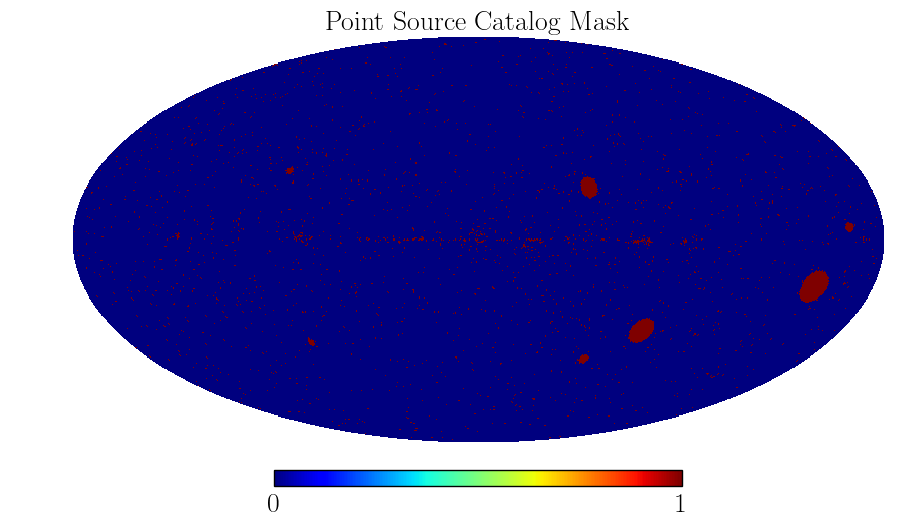
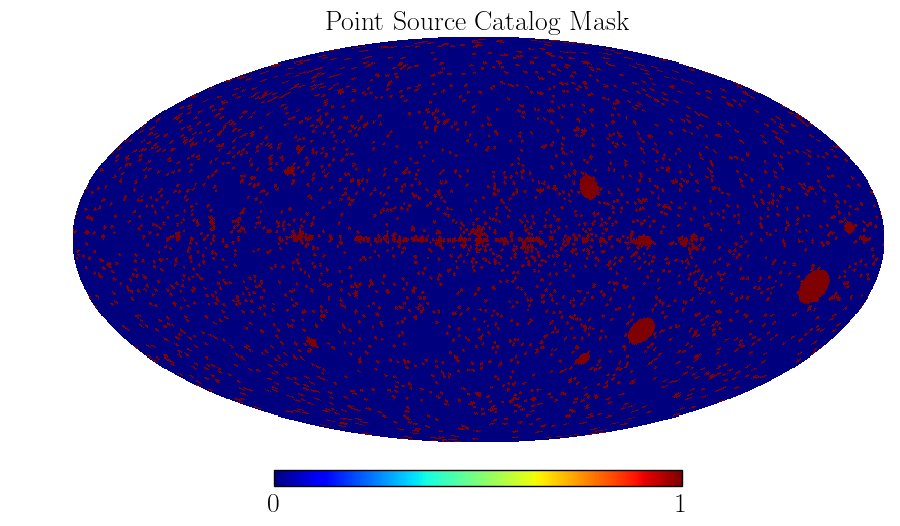
Updated rst examples in docs

diff --git a/docs/Example1_Overview_of_the_Fermi_Data.rst b/docs/Example1_Overview_of_the_Fermi_Data.rst
@@ -62,15 +62,15 @@ Downloading the data
 --------------------
 
 The *Fermi* data used here can be downloaded from
-http://physics.princeton.edu/~smsharma/fermi\_data.tar.gz along with a
-``README`` detailing the data. The following commands automatically
-download and set up the data on a UNIX system:
+https://dspace.mit.edu/handle/1721.1/105492 along with a ``README``
+detailing the data. The following commands automatically download and
+set up the data on a UNIX system:
 
 .. code:: python
 
-    # Assumes wget is available! Otherwise, download manually 
-    # from http://physics.princeton.edu/~smsharma/fermi_data.tar.gz
-    os.system("wget http://physics.princeton.edu/~smsharma/fermi_data.tar.gz")
+    # Assumes wget is available! Otherwise, use curl or download manually 
+    # from https://dspace.mit.edu/handle/1721.1/105492
+    os.system("wget https://dspace.mit.edu/bitstream/handle/1721.1/105492/fermi_data.tar.gz")
     os.system("tar -xvf fermi_data.tar.gz")
     os.system("rm -r fermi_data.tar.gz*")
 
@@ -206,9 +206,8 @@ Point Source Catalog Mask
 
 We also include a mask of all point sources in the 3FGL, as well as
 large extended objects such as the Large Magellanic Cloud. All point
-sources are masked at :math:`1^{\circ}`, which is much larger than the
-relevant PSF in the dataset and energy range we are using. The map below
-is a mask, so just a boolean array
+sources are masked at 95% containment as appropriate for this ``nside``.
+The map below is a mask, so just a boolean array
 
 Note that with the NPTF it is not always desirable to mask point sources
 - we can often simply use a non-Poissonian template to model them.
@@ -217,7 +216,7 @@ Note that with the NPTF it is not always desirable to mask point sources
 
     pscmask = np.load('fermi_data/fermidata_pscmask.npy')
     
-    hp.mollview(pscmask,title='Point Source Catalog Mask')
+    hp.mollview(pscmask, title='Point Source Catalog Mask')
 
 
 

diff --git a/docs/Example7_Galactic_Center_nonPoissonian.rst b/docs/Example7_Galactic_Center_nonPoissonian.rst
@@ -14,12 +14,12 @@ can be found as ``Example7_Galactic_Center_nonPoissonian.py``, which can
 be run faster on multiple processors with MPI (see example in
 ``Example7_Galactic_Center_Batch.batch``.
 
-**NB:** even with ``nlive=100``, this notebook takes roughly one hour to
+**NB:** Even with ``nlive=100``, this notebook takes roughly one hour to
 complete. This highlights that for realistic non-Poissonian runs,
 running on multiple cores becomes necessary. We show an explicit
 application of this in Example 9.
 
-**NB:** this example makes use of the Fermi Data, which needs to already
+**NB:** This example makes use of the Fermi Data, which needs to already
 be installed. See Example 1 for details.
 
 .. code:: python
@@ -49,7 +49,7 @@ for details.
 
 .. code:: python
 
-    n = nptfit.NPTF(tag='GCE_Example_newf')
+    n = nptfit.NPTF(tag='GCE_Example')
 
 .. code:: python
 

diff --git a/docs/Example8_Analysis.rst b/docs/Example8_Analysis.rst
@@ -44,7 +44,7 @@ loaded with ``n.load_scan()``.
 
 .. code:: python
 
-    n = nptfit.NPTF(tag='GCE_Example_newf')
+    n = nptfit.NPTF(tag='GCE_Example')
 
 .. code:: python
 
@@ -54,7 +54,7 @@ loaded with ``n.load_scan()``.
 
 .. code:: python
 
-    pscmask=np.array(np.load('fermi_data/fermi_pscmask_cons.npy'), dtype=bool)
+    pscmask=np.array(np.load('fermi_data/fermidata_pscmask.npy'), dtype=bool)
     analysis_mask = cm.make_mask_total(band_mask = True, band_mask_range = 2,
                                        mask_ring = True, inner = 0, outer = 30,
                                        custom_mask = pscmask)

diff --git a/docs/Example3_Running_Poissonian_Scans.rst b/docs/Example3_Running_Poissonian_Scans.rst
@@ -12,7 +12,7 @@ In detail we will perform an analysis of the inner galaxy involving all
 five background templates discussed in Example 1. We will show that the
 fit prefers a non-zero value for the GCE template.
 
-**NB:** this example makes use of the Fermi Data, which needs to already
+**NB:** This example makes use of the Fermi Data, which needs to already
 be installed. See Example 1 for details.
 
 .. code:: python

diff --git a/docs/Example6_Manual_nonPoissonian_Likelihood.rst b/docs/Example6_Manual_nonPoissonian_Likelihood.rst
@@ -11,7 +11,7 @@ We will take the exact same analysis as considered in the previous
 example, and show the likelihood peaks at exactly the same location for
 the normalisation of the non-Poissonian template.
 
-**NB:** this example makes use of the Fermi Data, which needs to already
+**NB:** This example makes use of the Fermi Data, which needs to already
 be installed. See Example 1 for details.
 
 .. code:: python

diff --git a/docs/Example5_Running_nonPoissonian_Scans.rst b/docs/Example5_Running_nonPoissonian_Scans.rst
@@ -9,7 +9,7 @@ To this end we perform a simple analysis of a small region around the
 north galactic pole, looking for isotropically distributed point
 sources.
 
-**NB:** this example makes use of the Fermi Data, which needs to already
+**NB:** This example makes use of the Fermi Data, which needs to already
 be installed. See Example 1 for details.
 
 .. code:: python

diff --git a/docs/Example9_HighLat_Analysis.rst b/docs/Example9_HighLat_Analysis.rst
@@ -12,7 +12,7 @@ NPTFit.
 
 **NB:** The batch file must be run before this notebook.
 
-**NB:** this example makes use of the Fermi Data, which needs to already
+**NB:** This example makes use of the Fermi Data, which needs to already
 be installed. See Example 1 for details.
 
 In this example, we model the source-count function as a triply-broken
